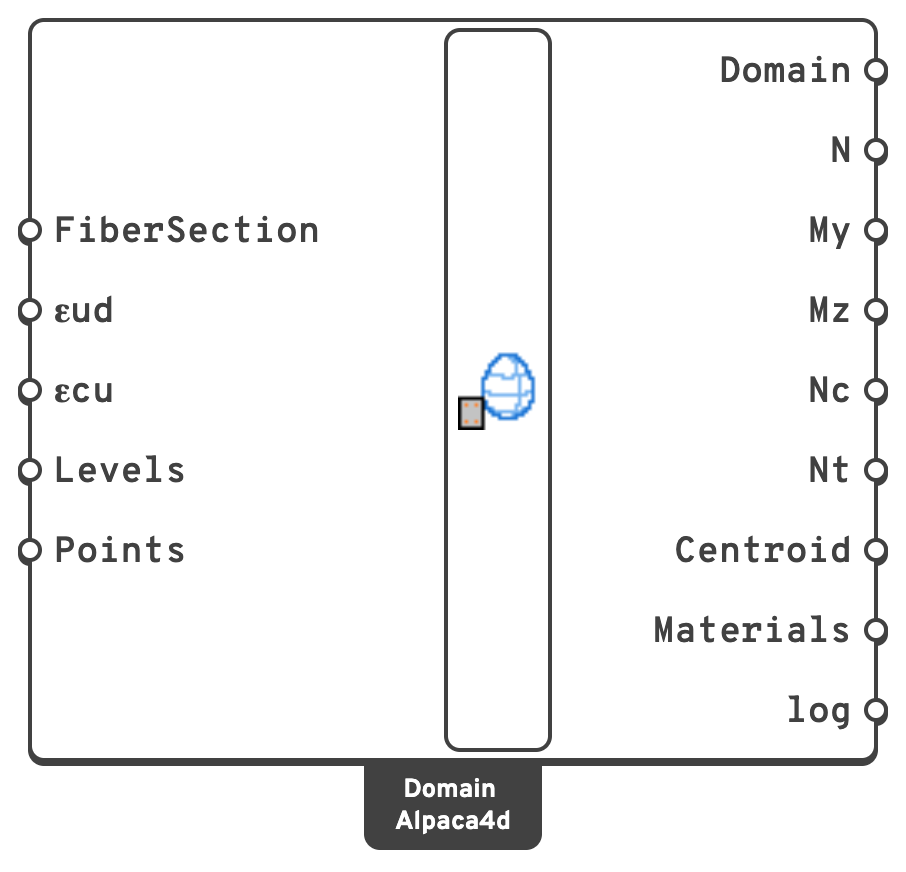
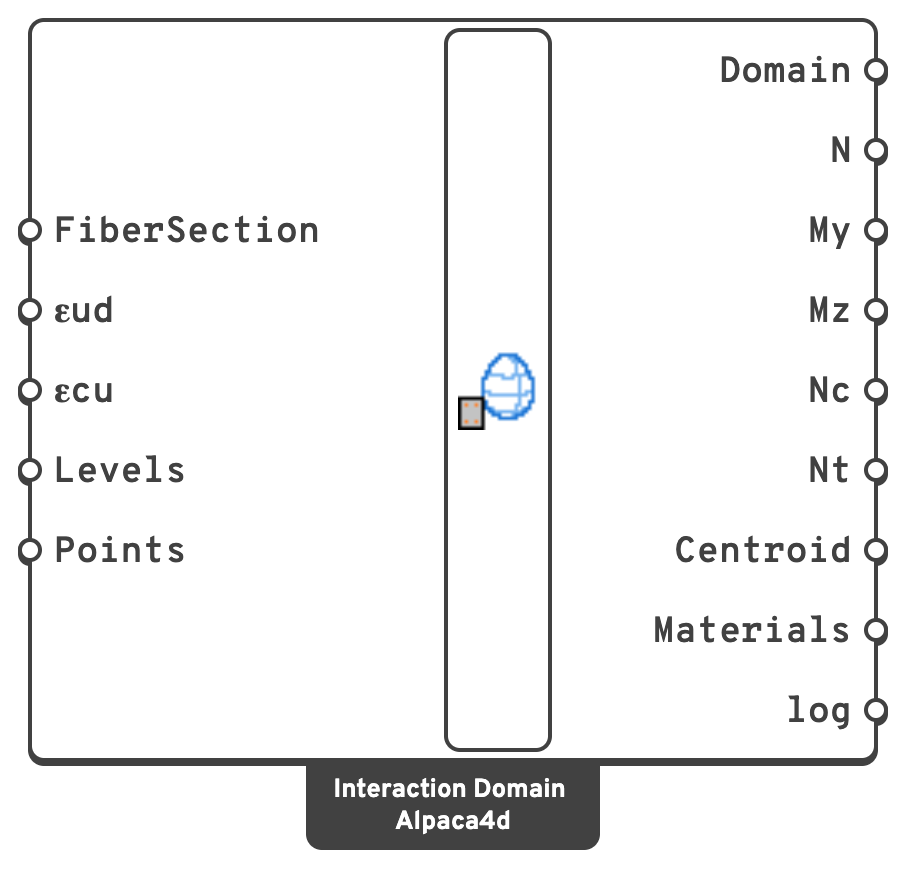
📝 Name Interaction Domain in full, and give Moment Curvature's Direction in degrees
Interaction Domain's nickname and tab are its whole name; Moment Curvature's Direction is 0 to
90 degrees from y, with how the upgrade turns an old y or z into it. The Column Domain example is
written again with the new nickname.

Changed region(s): [[0.34, 0.867, 0.6799, 0.9908]]

diff --git a/doc/basics/moment-curvature/moment-curvature.md b/doc/basics/moment-curvature/moment-curvature.md
@@ -16,7 +16,7 @@ yield** and **ultimate state**: the ductility of the section and what makes it f
 | --- | --- | --- | --- | --- |
 | FiberSection | `FiberSection` | FiberSection | — | The section to analyse, from [Fiber Section](fiber-section.md). |
 | Axial | `Axial` | Number | `0.0` | Axial force held constant while the curvature is applied, in `kN`. **Positive is tension, negative is compression.** |
-| Direction | `Direction` | Text | `y` | The moment direction: `y` to bend about the section's local *y* axis, `z` about its *z* axis, or an angle in degrees from *y* towards *z*, such as `30`. See [Any direction](#any-direction). |
+| Direction | `Direction` | Number | `0` | The moment direction, in degrees from the section's local *y* axis towards *z*, from `0` to `90`: `0` bends it about *y*, `90` about *z*. See [Any direction](#any-direction). |
 | NumIncr | `NumIncr` | Integer | `100` | Increments used to reach `MaxPhi`: the number of points on the curve, when it does not stop sooner. |
 | MaxPhi | `MaxPhi` | Number | — | The curvature along Direction to push the section to, in `rad/m`. Left empty, it comes from the section's ultimate state: a fifth past it, or twice it when the analysis is not to stop there. |
 | εud | `εud` | Number | `0.01` | Ultimate strain, either way, of every fibre that is not [Concrete01](concrete01.md), as in [Interaction Domain](interaction-domain.md). |
@@ -70,8 +70,8 @@ ductility of εud / εy = 29.6.
 
 ## Any direction
 
-`Direction` holds the **moment** to its direction and leaves the curvature across it free, as
-bending about *y* always held Mz at zero. A section bent off its axes, or an unsymmetric one,
+`Direction`, between 0 and 90 degrees, holds the **moment** to its direction and leaves the
+curvature across it free, as bending about *y* always held Mz at zero. A section bent off its axes, or an unsymmetric one,
 turns its neutral axis as it needs to, and its curve ends on the [N-M Diagram](domain-views.md#n-m-diagram)
 cut at the same angle. Under the hood the element is turned so that the direction lies on a global
 axis; the forces and deformations come back in the section's own axes.
@@ -124,5 +124,7 @@ Read the whole deck from the **log** output.
 {% hint style="info" %}
 Definitions made with the earlier Moment Curvature, which bent about *y* or *z* only and ran to
 `MaxPhi`, open with it, and Grasshopper offers to upgrade it. The upgraded component keeps its
-wires and values; a `MaxPhi` given stays given, and the curve now stops at the ultimate state.
+wires and values: a Direction of `y` becomes `0` and `z` becomes `90`, a Value List of the two
+wired to it is turned into one of 0 and 90, a `MaxPhi` given stays given, and the curve now stops
+at the ultimate state.
 {% endhint %}

diff --git a/doc/basics/moment-curvature/README.md b/doc/basics/moment-curvature/README.md
@@ -47,7 +47,7 @@ section-level tool. Fibre sections cannot yet be assigned to a
 
 | Component | Nickname | Does |
 | --- | --- | --- |
-| [Interaction Domain](interaction-domain.md) | `Domain` | The N–My–Mz domain of the section. |
+| [Interaction Domain](interaction-domain.md) | `Interaction Domain` | The N–My–Mz domain of the section. |
 | [Domain Check](domain-check.md) | `Domain Check` | Safety factors of design forces against it. |
 | [Domain 3D](domain-views.md#domain-3d) | `Domain 3D` | Draws the domain in three dimensions. |
 | [N-M Diagram](domain-views.md#n-m-diagram) | `N-M` | Draws its cut through the N axis at a moment direction. |

diff --git a/doc/basics/moment-curvature/interaction-domain.md b/doc/basics/moment-curvature/interaction-domain.md
@@ -8,9 +8,9 @@ reinforced concrete of any shape, steel, or both.
 
 ## 🔧 Grasshopper component
 
-`Interaction Domain (Alpaca4d)` — **Alpaca4d ▸ MomentCurvature_βeta**, nickname `Domain`
+`Interaction Domain (Alpaca4d)` — **Alpaca4d ▸ MomentCurvature_βeta**, nickname `Interaction Domain`
 
-<figure><img src="../../.gitbook/assets/components/interaction-domain.png" alt="Domain component" width="453"><figcaption></figcaption></figure>
+<figure><img src="../../.gitbook/assets/components/interaction-domain.png" alt="Interaction Domain component" width="453"><figcaption></figcaption></figure>
 
 ### Inputs
 
